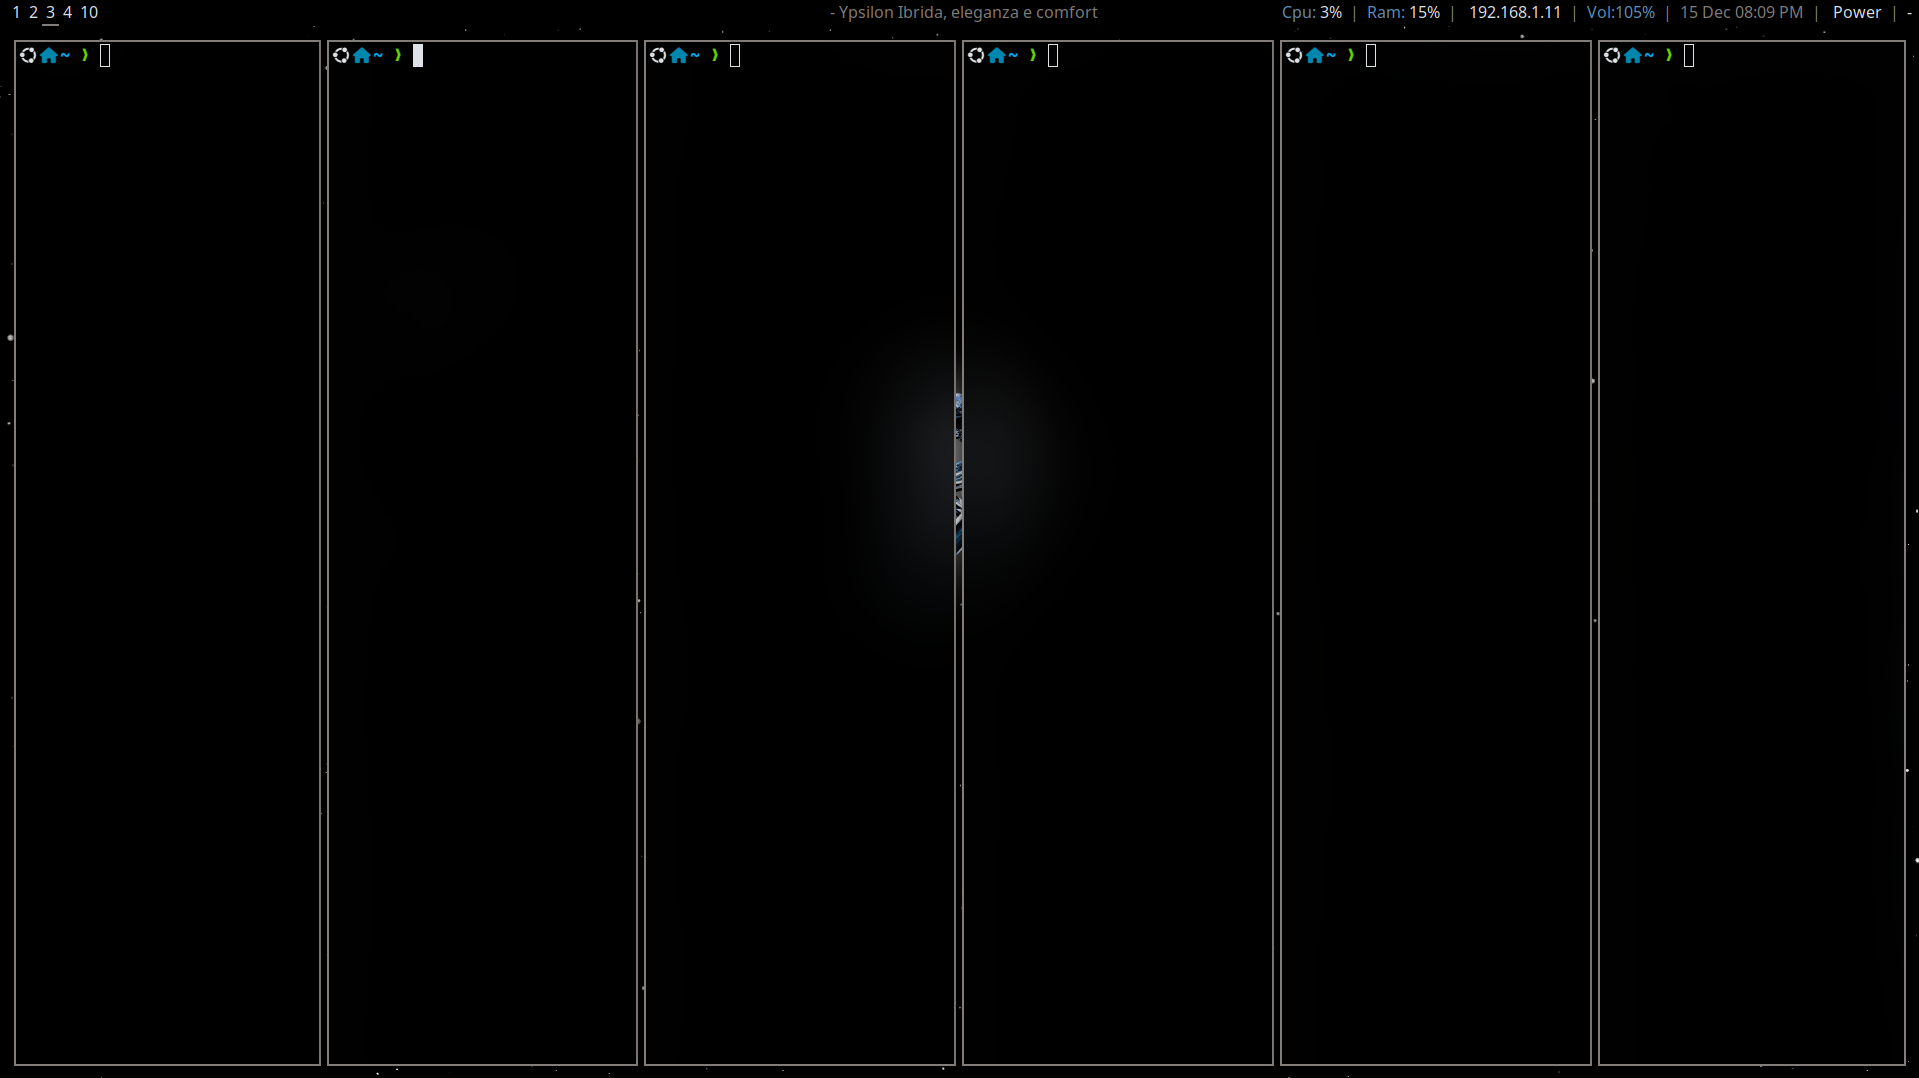
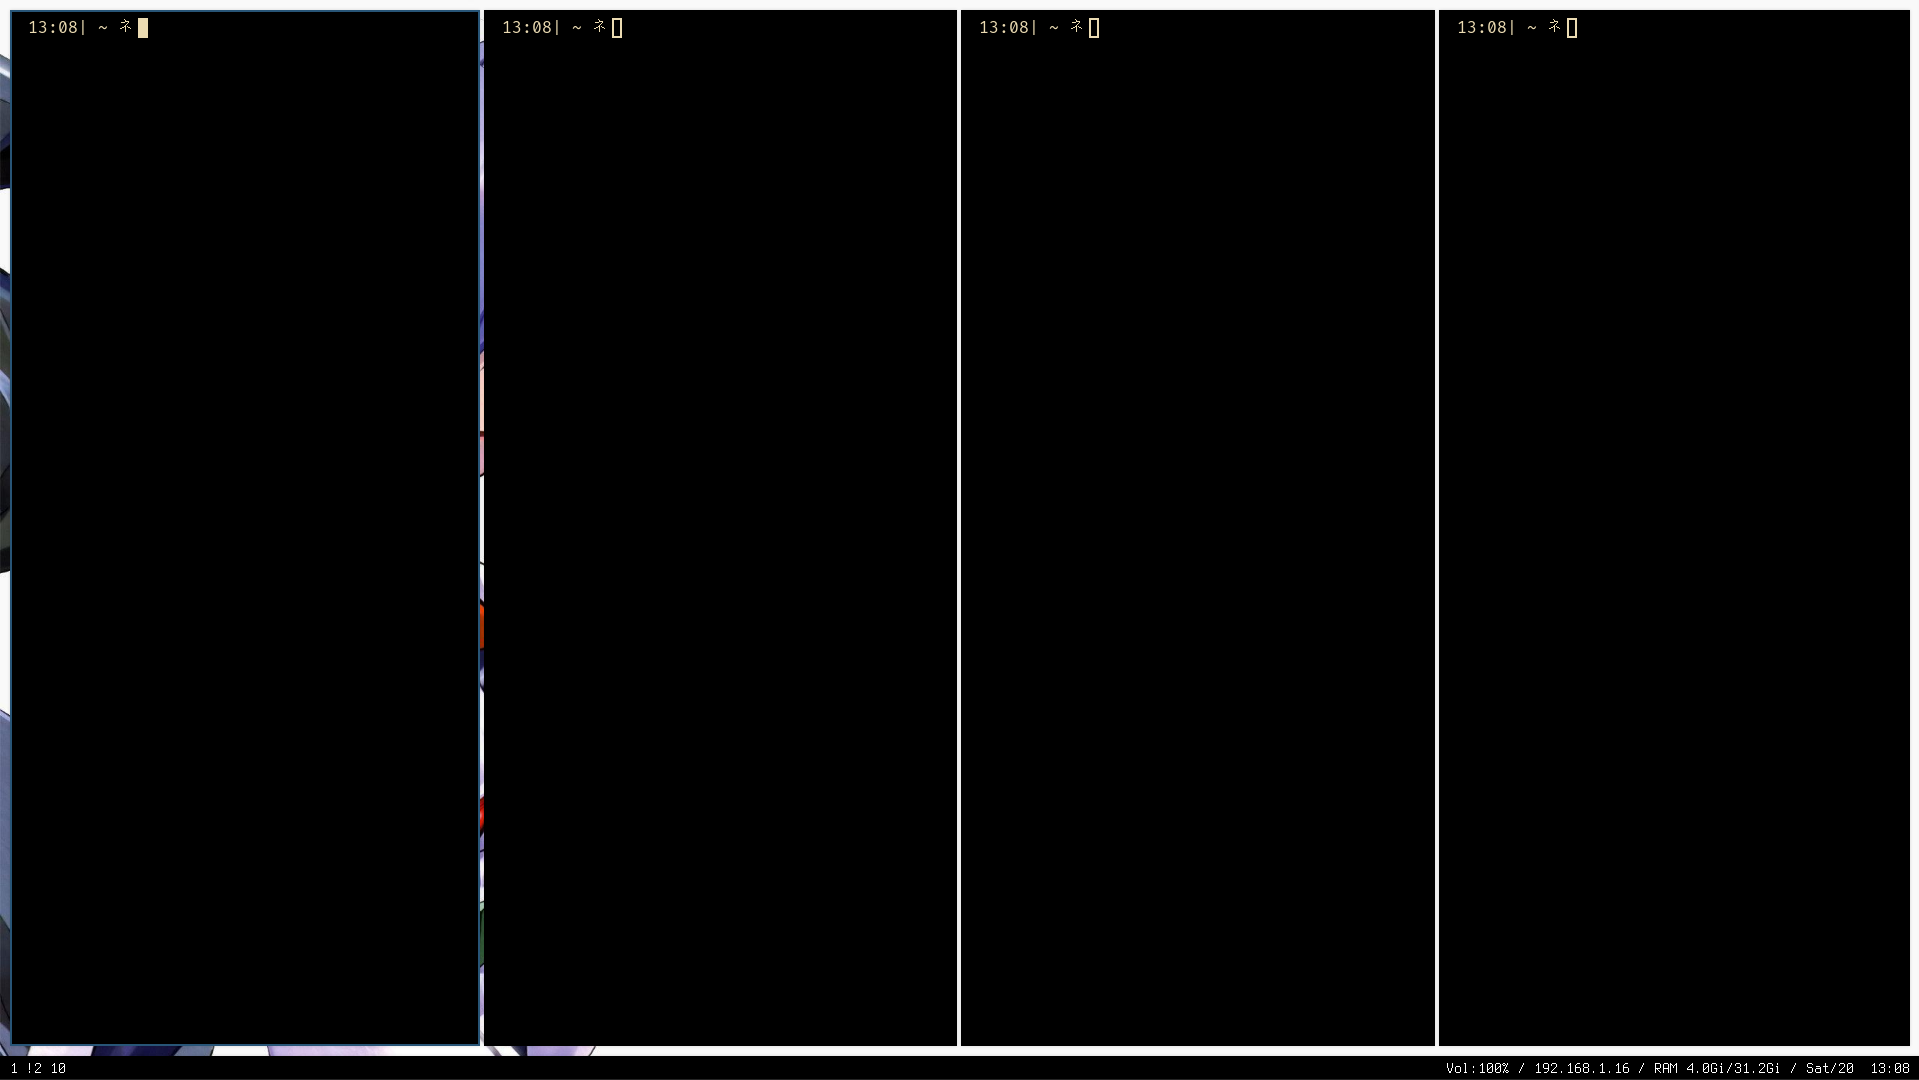
make a better readme fix minor compilation warnings

Changed region(s): [[0.0, 0.0, 1.0, 1.0], [0.246, 0.6122, 0.2767, 0.7653], [0.246, 0.7959, 0.2767, 0.8265]]

diff --git a/README.md b/README.md
@@ -1,44 +1,26 @@
 # AUTO TILING FOR I3 (C VERSION)
 
-A lightweight, fast auto-tiling tool for the **i3 window manager**, written in **C**.
-Inspired by the old Python auto-tiling script, but much faster.
+A lightweight, fast auto-tiling daemon for **i3 and sway**, written in **C**.
+Inspired by the old Python auto-tiling script, but with minimal dependencies
+and no python vm.
+It uses 1.5~ Mb of ram.
 
----
 
-## Features
-
-* Automatically tiles windows in i3
-* Written in C for speed and low overhead
-* Easy to install and use
 
 ---
 
 ## Installation
 
-Copy and paste the following commands into your terminal.
-
-### Clone the repository
-
 ```bash
 git clone https://github.com/piadi-sudo/i3-autotiling-in-c.git
-```
-
-### Enter the repository directory
-
-```bash
 cd i3-autotiling-in-c
+sudo make install
 ```
 
-### Build the project
+### Uninstall
 
 ```bash
-make
-```
-
-### Move the binary to your PATH
-
-```bash
-mv autotiling ~/.local/bin/
+sudo make uninstall
 ```
 
 ---
@@ -56,7 +38,8 @@ exec_always --no-startup-id autotiling
 
 ### Sway
 
-Add the following line to your Sway config file:
+Add the following line to your Sway configuration file:
+
 `~/.config/sway/config`
 
 ```bash